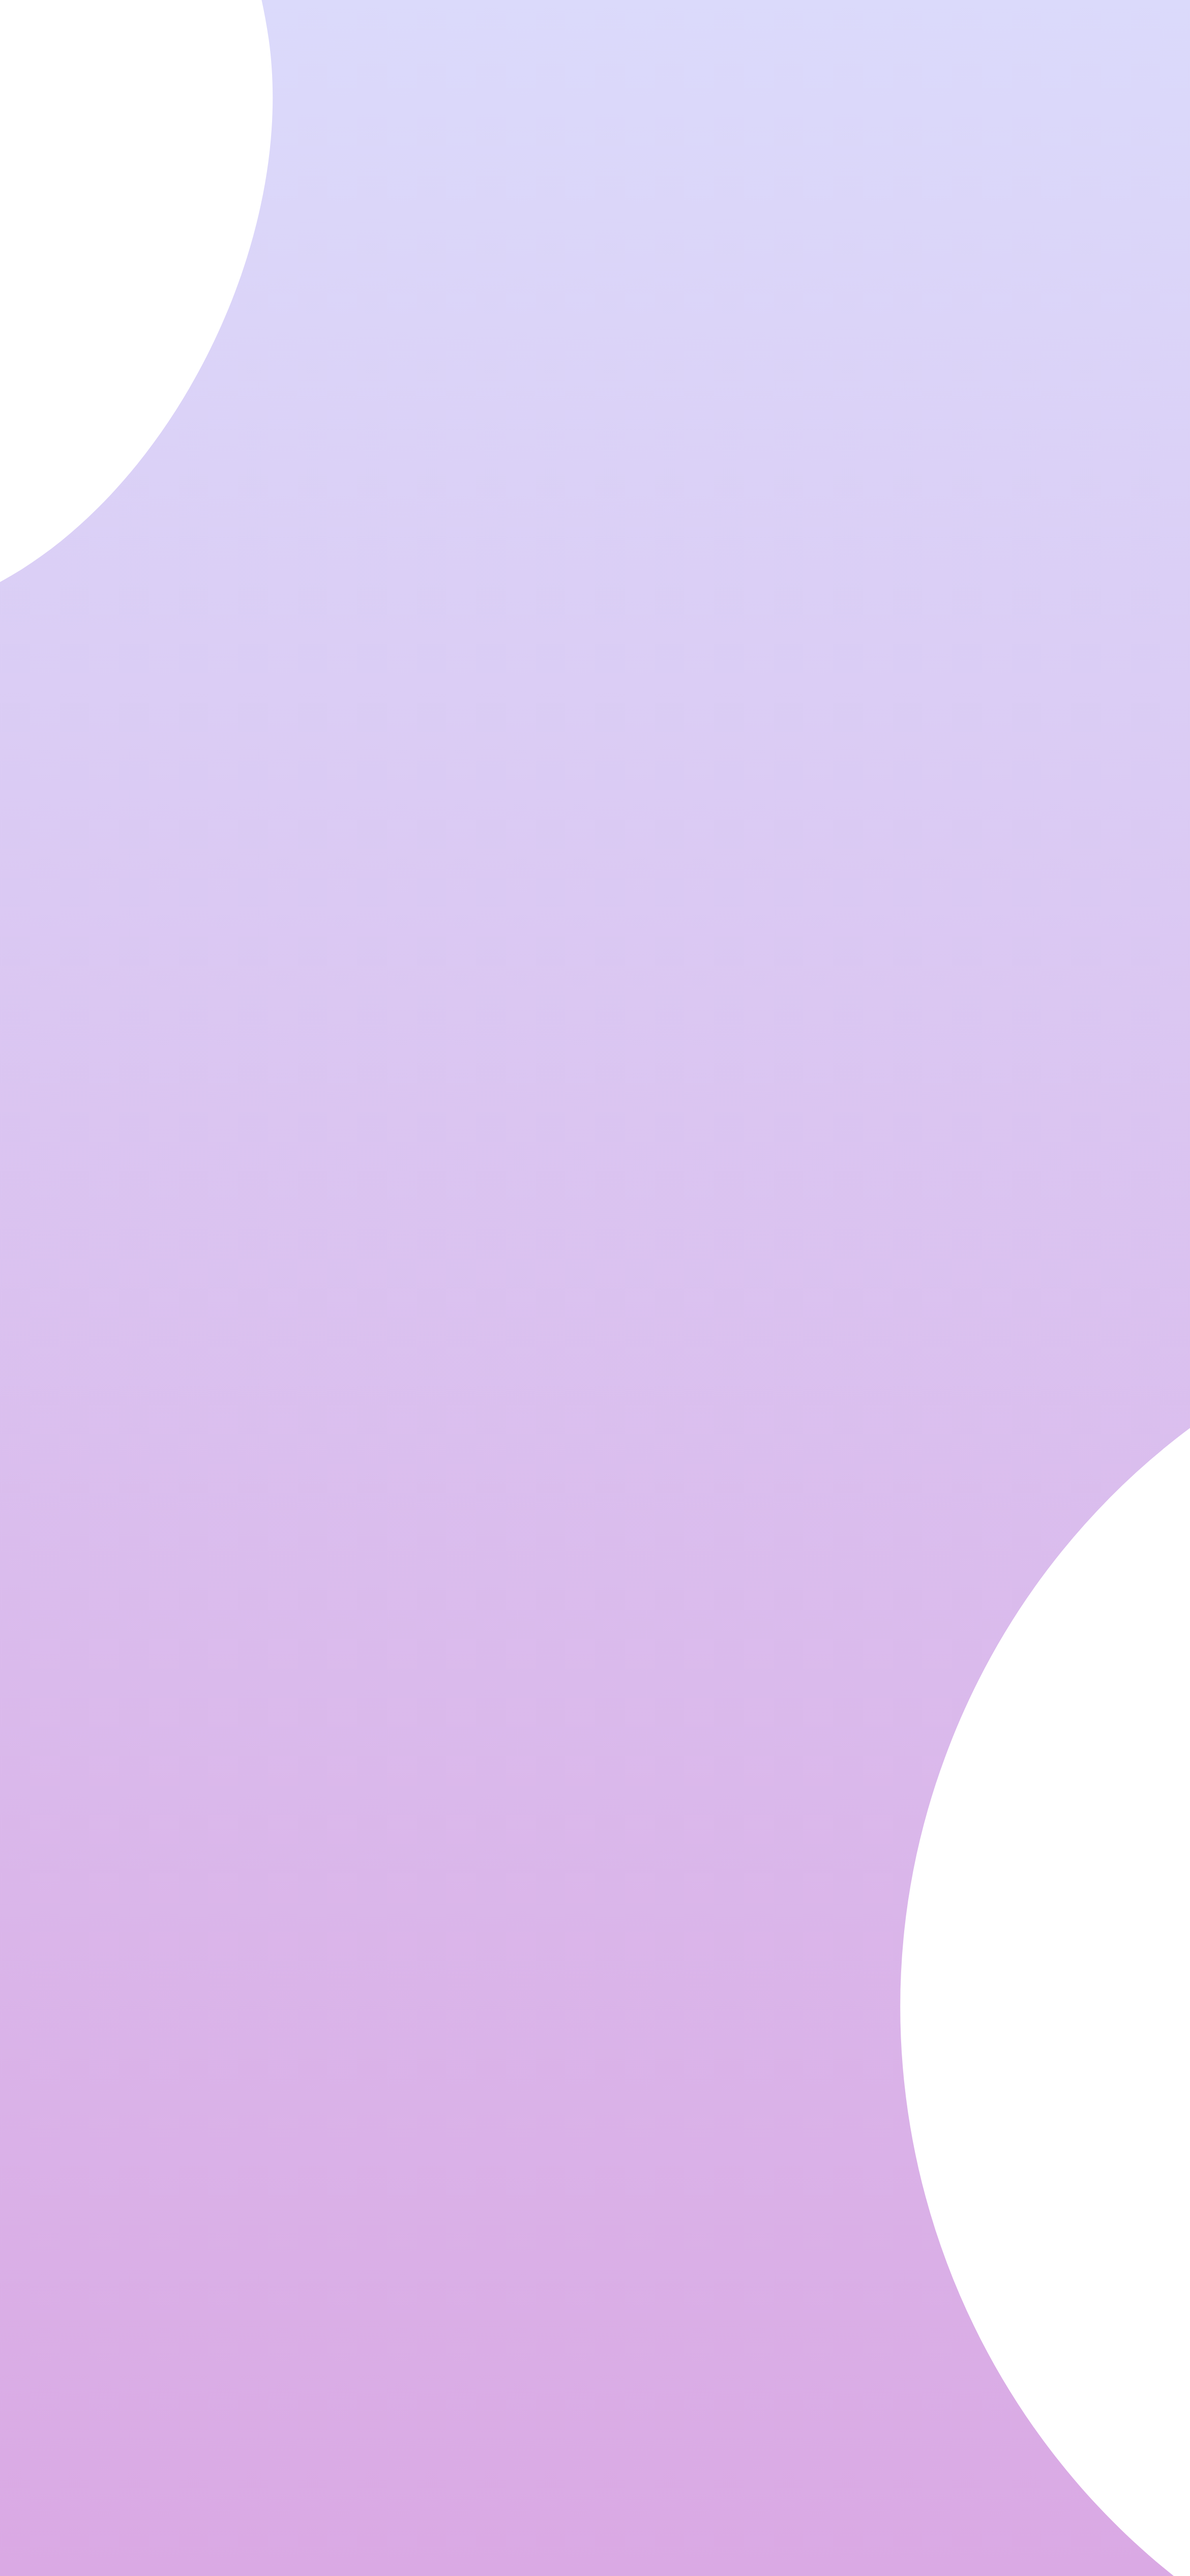
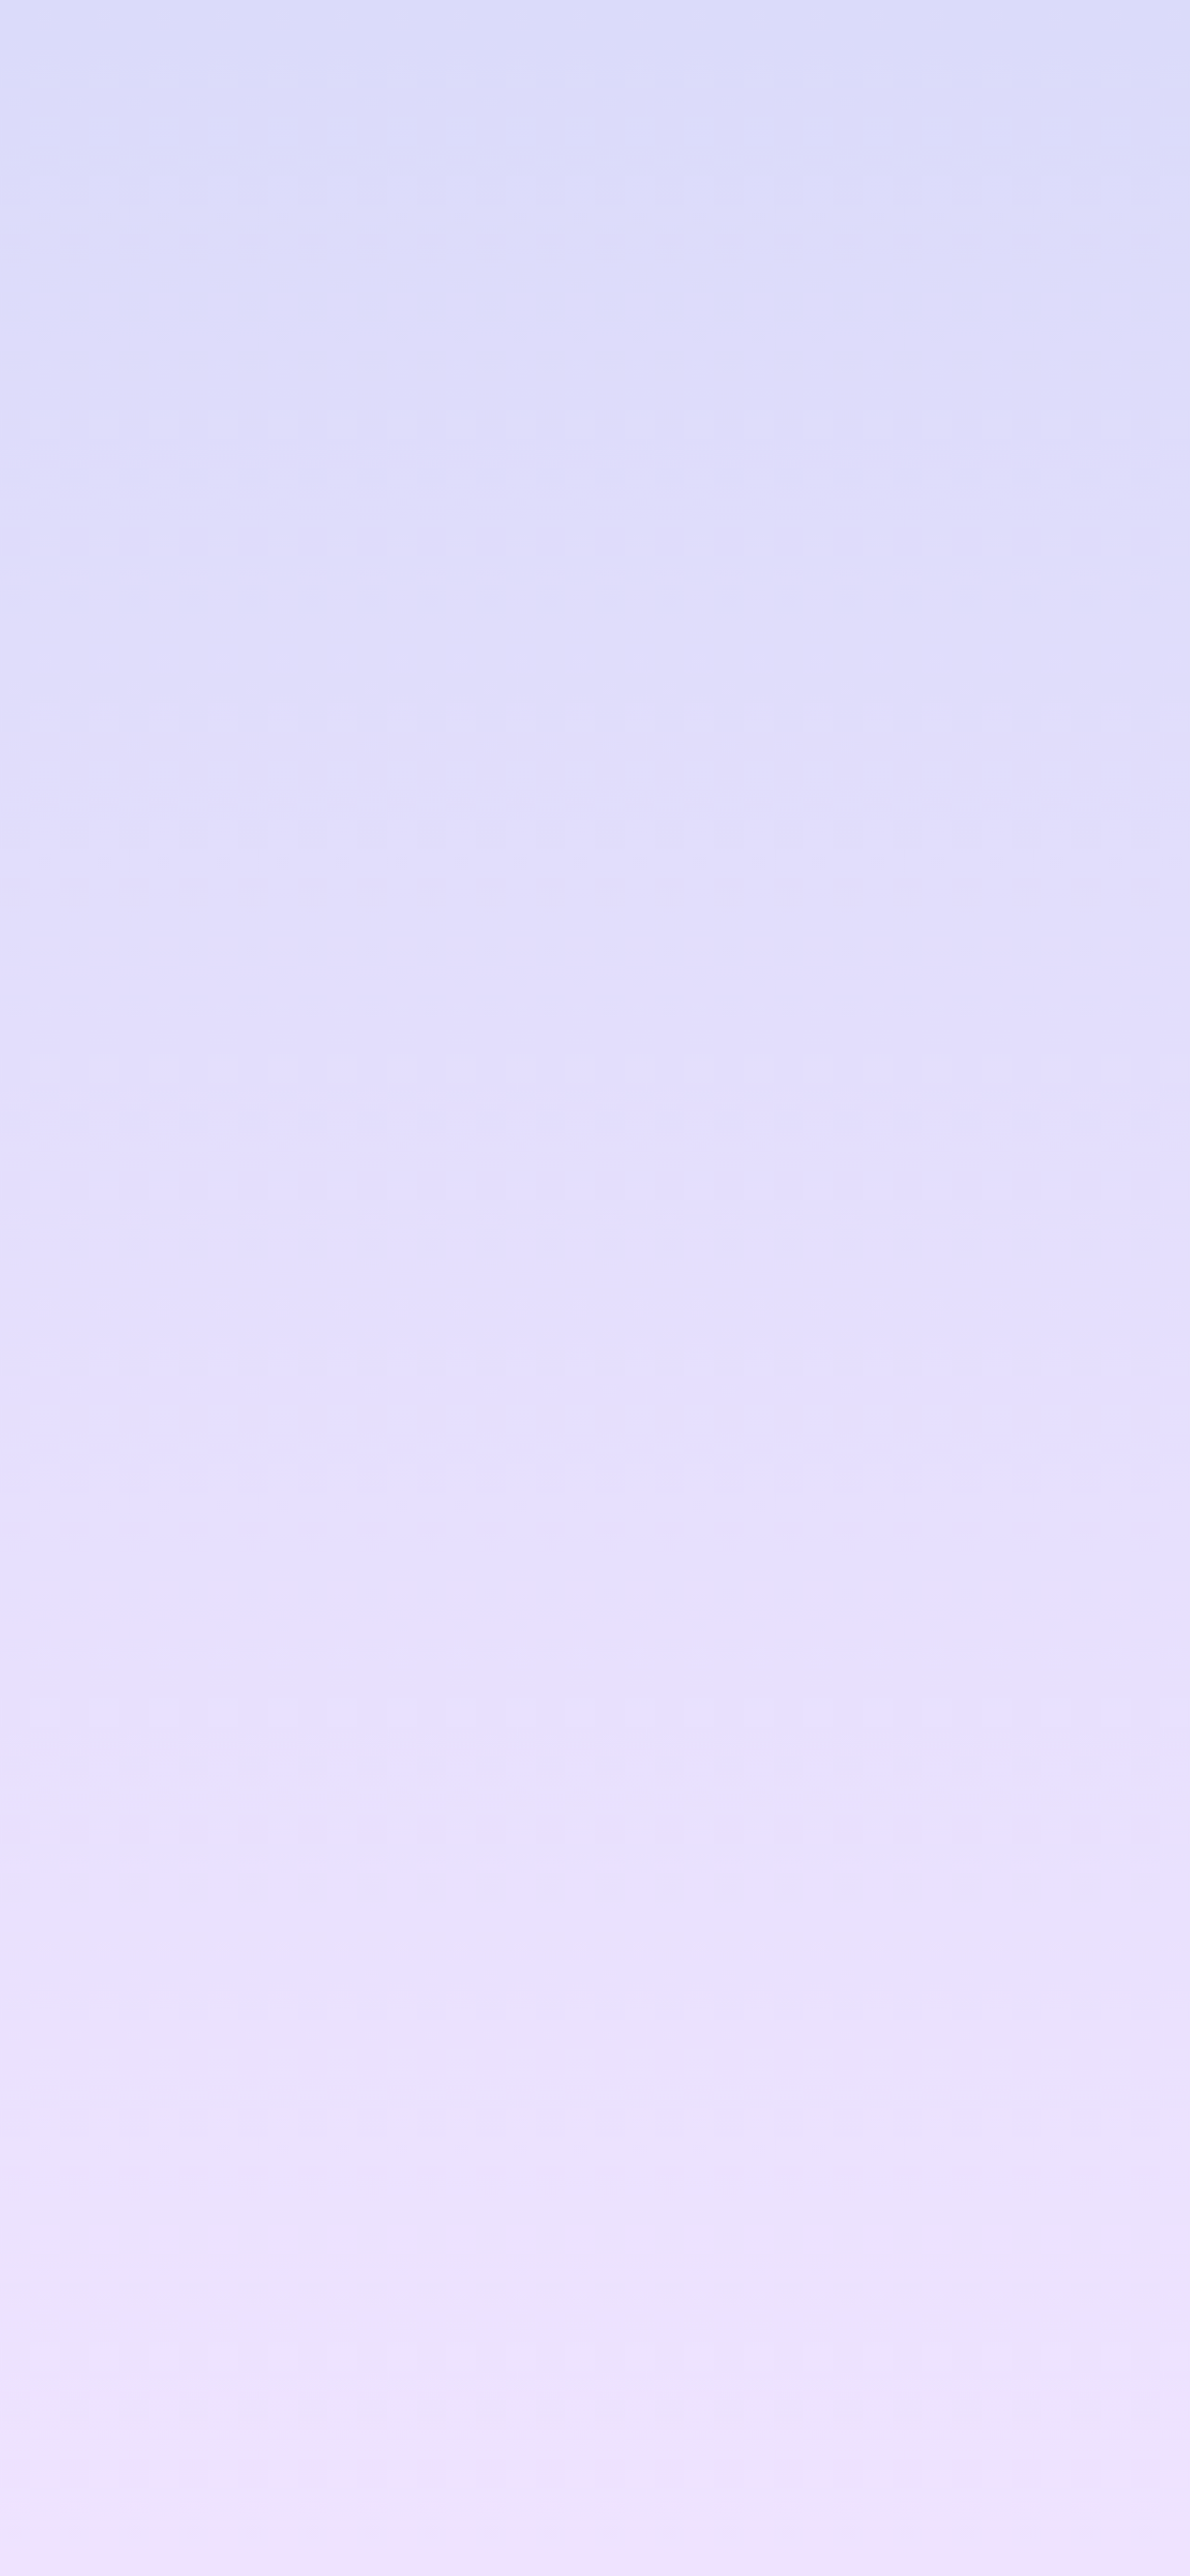
Some UI changes; making backgrounds more responsive

diff --git a/src/app/tabs/explore/explore.page.scss b/src/app/tabs/explore/explore.page.scss
@@ -1,6 +1,7 @@
 ion-content {
-  --background: url("/assets/imgs/background/explore.png") no-repeat center
-    center / cover;
+  // --background: url("/assets/imgs/background/explore.png") no-repeat center
+  //   center / cover;
+  --background: var(--ion-color-light);
 }
 
 @media (min-width: 768px) {
@@ -58,27 +59,22 @@ ion-content {
 .right {
   display: flex;
   justify-content: flex-end;
+  img.logoBack {
+    position: absolute;
+    top: -30px;
+    right: -37px;
+    z-index: -1; /* Put it behind other elements */
+    transform: scale(1.8);
+  }
   img.logo {
-    height: 60px;
+    position: absolute;
+    top: 7px;
+    right: 7px;
+    z-index: 1;
     max-width: 100%;
     margin-top: 2rem;
     margin-right: 0.4rem;
-  }
-}
-
-ion-row.srch {
-  padding-right: 1.5vh;
-  align-items: center;
-  ion-searchbar {
-    --background: #fff;
-    --border-radius: 10px;
-  }
-  ion-button {
-    height: 3rem;
-    --border-radius: 10px;
-    ion-icon {
-      transform: scale(1.2);
-    }
+    width: 90%;
   }
 }
 
@@ -95,6 +91,7 @@ div.popular-workout-item {
 }
 
 ion-list {
+  z-index: 2;
   background: transparent;
   ion-list-header {
     padding-right: 1vh;
@@ -111,7 +108,7 @@ ion-list {
 
 ion-list.recent-workouts {
   ion-item.recent-workout {
-    --background: rgba(144, 142, 231, 0.25);
+    --background: rgba(167, 166, 241, 0.25);
     margin-left: 1.2rem;
     margin-right: 1.4rem;
     margin-bottom: 1.5rem;

diff --git a/src/app/tabs/favorites/favorites.page.scss b/src/app/tabs/favorites/favorites.page.scss
@@ -1,4 +1,50 @@
 ion-content {
+  // --background: url("/assets/imgs/background/favorites.png") no-repeat center
+  //   center / cover;
+  --background: #f2f2ff;
+  img.blob {
+    position: absolute;
+    top: -40px;
+    left: -30px;
+    z-index: -1; /* Put it behind other elements */
+    transform: scale(1.8);
+  }
+  ion-header {
+    background: transparent;
+    display: flex;
+    justify-content: space-between; /* Align items horizontally, with space between them */
+    align-items: center; /* Center items vertically */
+    padding: 0 1.8rem; /* Add padding to the header container if needed */
+    margin-bottom: 0.2rem; /* Add margin to the bottom of the header */
+    box-shadow: none;
+
+    div.title {
+      display: grid;
+      margin-top: 1.8rem;
+      //padding-left: 10%;
+      ion-text {
+        color: #ffff;
+        font-size: 1.8rem;
+        font-weight: 800;
+      }
+    }
+  }
+
+  ion-list {
+    background: transparent;
+
+    ion-item.my-workout {
+      &::part(native) {
+        background: rgba(255, 255, 255, 0.63);
+      }
+      margin-left: 1.2rem;
+      margin-right: 1.4rem;
+      margin-bottom: 1.5rem;
+      border-radius: 10px;
+      box-shadow: 4px 3px 32px 0px rgba(246, 246, 253, 0.2);
+    }
+  }
+
   ion-row.srch {
     margin-left: 0.2rem;
     margin-right: 1rem;

diff --git a/src/app/tabs/my-workouts/my-workouts.page.scss b/src/app/tabs/my-workouts/my-workouts.page.scss
@@ -1,8 +1,16 @@
 ion-content {
   width: 100%;
   height: 100%;
-  --background: url("/assets/imgs/background/my-workouts.png") no-repeat center
-    center / cover;
+  // --background: url("/assets/imgs/background/my-workouts.png") no-repeat center
+  //   center / cover;
+  --background: var(--ion-color-light);
+  img.blob {
+    position: absolute;
+    top: -50px;
+    left: -60px;
+    z-index: -1; /* Put it behind other elements */
+    transform: scale(1.4);
+  }
   ion-header {
     display: flex;
     justify-content: space-between; /* Align items horizontally, with space between them */
@@ -17,7 +25,7 @@ ion-content {
       //padding-left: 10%;
       ion-text {
         color: #fff;
-        font-size: 2.1rem;
+        font-size: 1.8rem;
         font-weight: 800;
       }
     }
@@ -25,6 +33,7 @@ ion-content {
   overflow-x: hidden; /* Ensure horizontal overflow is hidden */
 
   ion-row.srch {
+    z-index: 1;
     margin-left: 0.2rem;
     margin-right: 1rem;
     display: flex;
@@ -44,6 +53,7 @@ ion-content {
   }
 
   ion-list {
+    z-index: 1;
     height: auto;
     overflow: scroll;
     background-color: transparent;

diff --git a/src/app/tabs/explore/search/search.page.html b/src/app/tabs/explore/search/search.page.html
@@ -1,14 +1,17 @@
-<ion-header [translucent]="true">
-  <ion-toolbar>
-    <ion-buttons slot="start">
-      <ion-back-button mode="md" defaultHref="/tabs/explore"></ion-back-button>
-    </ion-buttons>
-
-    <ion-title>Search for a workout</ion-title>
-  </ion-toolbar>
-</ion-header>
-
 <ion-content [fullscreen]="true">
+  <ion-header [translucent]="true" mode="md">
+    <ion-toolbar>
+      <ion-buttons slot="start">
+        <ion-back-button
+          mode="md"
+          defaultHref="/tabs/explore"
+        ></ion-back-button>
+      </ion-buttons>
+
+      <ion-title slot="end">All Workouts</ion-title>
+    </ion-toolbar>
+  </ion-header>
+
   <ion-row class="srch">
     <ion-col size="10">
       <ion-searchbar
@@ -25,9 +28,9 @@
 
   <ion-list>
     @for (workout of filteredWorkouts; track $index) {
-    <ion-item class="recent-workout" lines="none">
+    <div class="recent-workout" lines="none">
       <app-explore-workout [workout]="workout"></app-explore-workout>
-    </ion-item>
+    </div>
     }@empty {
     <ion-item lines="none">
       <ion-label class="ion-text-center"> No workouts found. </ion-label>

diff --git a/src/app/tabs/explore/search/search.page.scss b/src/app/tabs/explore/search/search.page.scss
@@ -1,4 +1,24 @@
 ion-content {
+  --background: url("/assets/imgs/background/search.png") no-repeat center
+    center / cover;
+
+  ion-header {
+    box-shadow: none;
+    position: sticky;
+    height: fit-content;
+    margin-bottom: 0.8rem;
+    ion-toolbar {
+      --background: transparent;
+      ion-title {
+        color: var(--ion-color-dark);
+        margin-top: 1.3rem;
+        margin-right: 0.3vh;
+        font-size: 1.8rem;
+        font-weight: 800;
+      }
+    }
+  }
+
   ion-row.srch {
     margin-left: 0.2rem;
     margin-right: 1rem;
@@ -15,6 +35,22 @@ ion-content {
       ion-icon {
         transform: scale(1.2);
       }
+    }
+  }
+
+  ion-list {
+    background: transparent;
+
+    div.recent-workout {
+      padding-left: 8px;
+      padding-right: 2px;
+      padding-top: 6px;
+      background: rgba(79, 72, 149, 0.918);
+      color: #fff;
+      margin-left: 1.2rem;
+      margin-right: 1.4rem;
+      margin-bottom: 1rem;
+      border-radius: 15px;
     }
   }
 }

diff --git a/src/app/tabs/favorites/favorites.page.html b/src/app/tabs/favorites/favorites.page.html
@@ -1,10 +1,12 @@
-<ion-header [translucent]="true">
-  <ion-toolbar>
-    <ion-title>Favorite workouts</ion-title>
-  </ion-toolbar>
-</ion-header>
-
 <ion-content [fullscreen]="true">
+  <img class="blob" [src]="'assets/imgs/blob/favorites.png'" />
+  <ion-header>
+    <div class="title">
+      <ion-text> Favorite </ion-text>
+      <ion-text> Workouts </ion-text>
+    </div>
+  </ion-header>
+
   <ion-row class="srch">
     <ion-col size="10">
       <ion-searchbar

diff --git a/src/app/tabs/favorites/favorites.page.ts b/src/app/tabs/favorites/favorites.page.ts
@@ -14,6 +14,7 @@ import {
   IonItem,
   IonLabel,
   IonList,
+  IonText,
 } from '@ionic/angular/standalone';
 import { WorkoutService } from 'src/app/services/workout.service';
 import { Observable, catchError, finalize } from 'rxjs';
@@ -31,6 +32,7 @@ import { options } from 'ionicons/icons';
   styleUrls: ['./favorites.page.scss'],
   standalone: true,
   imports: [
+    IonText,
     IonList,
     IonLabel,
     IonItem,

diff --git a/src/app/tabs/my-workouts/modals/add-workout-modal/add-workout-modal.component.html b/src/app/tabs/my-workouts/modals/add-workout-modal/add-workout-modal.component.html
@@ -1,12 +1,12 @@
 <ion-header mode="md">
   <ion-toolbar>
-    <ion-buttons slot="start">
-      <ion-button (click)="close()">cancel</ion-button>
-    </ion-buttons>
-    <ion-title slot="end"
+    <ion-title slot="start"
       >Create New <br />
       Workout
     </ion-title>
+    <ion-buttons slot="end">
+      <ion-button (click)="close()">cancel</ion-button>
+    </ion-buttons>
   </ion-toolbar>
 </ion-header>
 

diff --git a/src/app/tabs/my-workouts/modals/add-set-modal/add-set-modal.component.html b/src/app/tabs/my-workouts/modals/add-set-modal/add-set-modal.component.html
@@ -1,9 +1,9 @@
 <ion-header mode="md">
   <ion-toolbar>
-    <ion-buttons slot="start">
+    <ion-title slot="start"> {{ setNumber | ordinal }} set </ion-title>
+    <ion-buttons slot="end">
       <ion-button (click)="close()">cancel</ion-button>
     </ion-buttons>
-    <ion-title slot="end"> {{ setNumber | ordinal }} set </ion-title>
   </ion-toolbar>
 </ion-header>
 

diff --git a/src/global.scss b/src/global.scss
@@ -26,7 +26,7 @@
 @import "@ionic/angular/css/flex-utils.css";
 
 .addExerciseModal::part(content) {
-  background-image: url("/assets/imgs/background/add-excercise.png");
+  background-image: url("/assets/imgs/background/add-workout.png");
   background-repeat: no-repeat;
   background-position: center;
   background-size: cover;

diff --git a/src/app/tabs/explore/explore.page.ts b/src/app/tabs/explore/explore.page.ts
@@ -71,7 +71,7 @@ export class ExplorePage implements OnInit {
   photoURL: string | null | undefined;
   popularWorkouts$!: Observable<IWorkoutData[]>;
   recentWorkouts$!: Observable<IWorkoutData[]>;
-  popularLimit = 4;
+  popularLimit = 3;
   recentLimit = 3;
   workoutFilters: any = {
     workoutTitle: '',

diff --git a/src/app/tabs/explore/search/search.page.ts b/src/app/tabs/explore/search/search.page.ts
@@ -54,7 +54,7 @@ import { options } from 'ionicons/icons';
 export class SearchPage implements OnInit {
   filteredWorkouts!: IWorkoutData[];
   currentPage = 1;
-  itemsPerPage = 10;
+  itemsPerPage = 3;
   isLoading = true;
   error = null;
   workoutFilters: any = {
